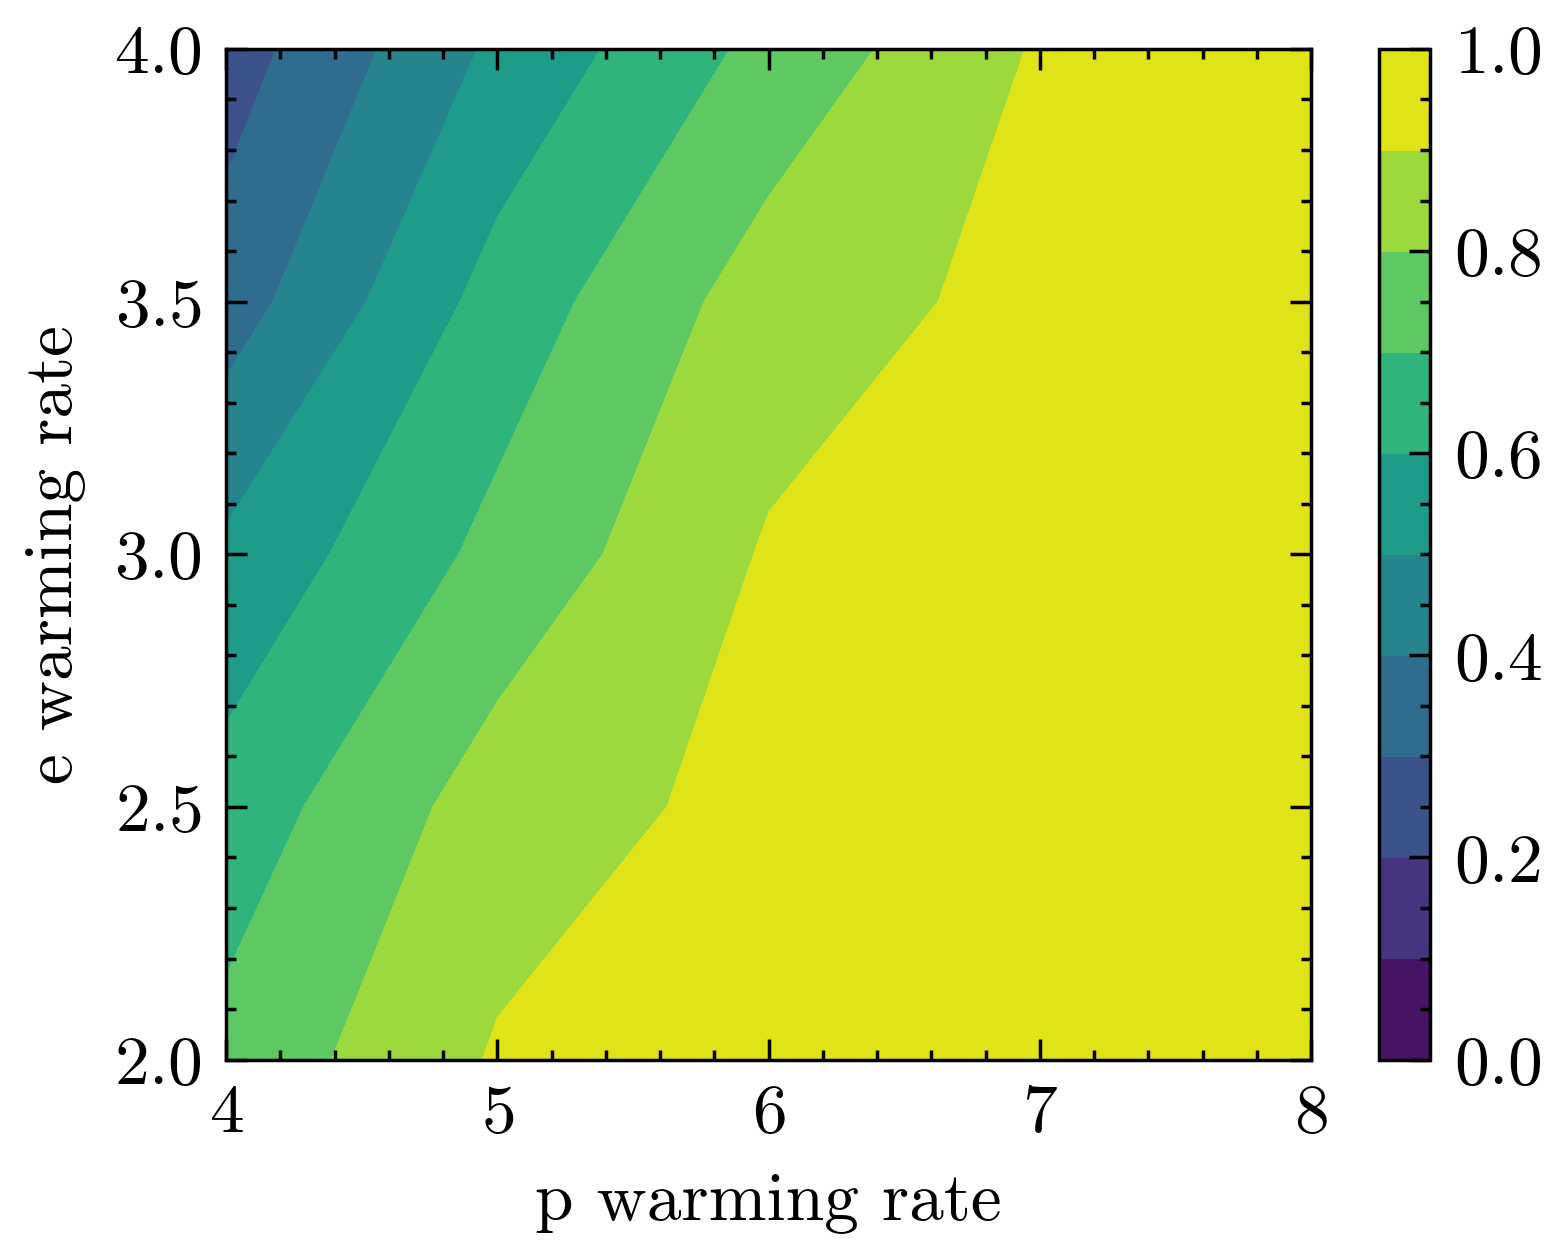
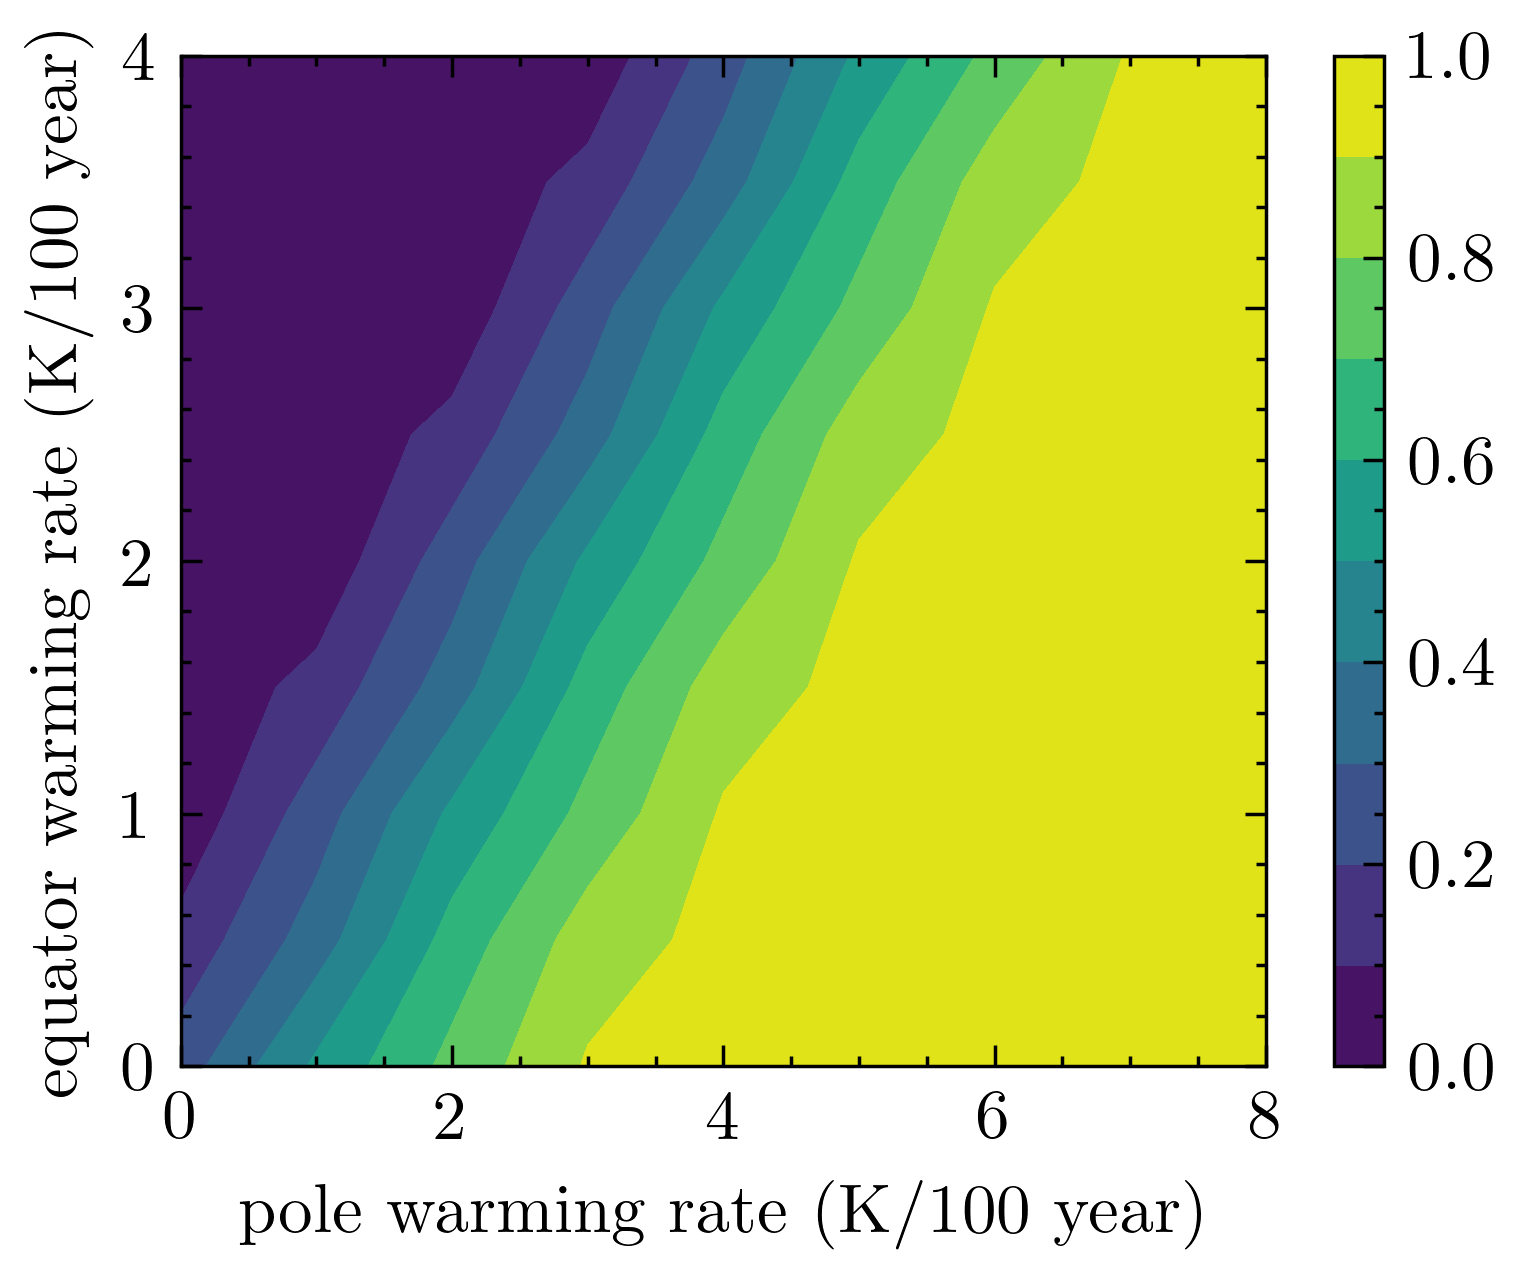
Various change to files and more graphs

diff --git a/dapper/mods/Stommel/Experiments/clima_forcing_var3.py b/dapper/mods/Stommel/Experiments/clima_forcing_var3.py
@@ -15,10 +15,10 @@ from copy import copy
 import os
 import scienceplots
 # from matplotlib.legend_handler import HandlerLine2D
-rc('text', usetex=False)
-plt.style.use(['science','no-latex']) # style used in scientific papers(LaTeX based)
+rc('text', usetex=True)
+plt.style.use(['science']) # style used in scientific papers(LaTeX based)
 
-def exp_clima_forcing(N=100, seed=1000, T_p_f = 6.0, T_e_f= 3.0, DA = True, m_rate = 0.):
+def exp_clima_forcing(N=100, seed=1000, T_p_f = 6.0, T_e_f= 3.0, DA = True, T_melt = 100*stommel.year):
     # Time period for DA
 
     Tda = 20 * stommel.year
@@ -57,8 +57,8 @@ def exp_clima_forcing(N=100, seed=1000, T_p_f = 6.0, T_e_f= 3.0, DA = True, m_ra
     # Activate surface salinity flux.
     model.fluxes.append(stommel.SaltAirFlux(functions))
     # Melt flux
-    #melt_rate = -stommel.V_ice * np.array([1.0 / (model.dx[0, 0] * model.dy[0, 0]), 0.0]) / T_melt  # ms-1
-    melt_rate = -np.array([m_rate, 0.0]) / stommel.year #m_rate is in m/year and transformed in ms^-1
+    melt_rate = -stommel.V_ice * np.array([1.0 / (model.dx[0, 0] * model.dy[0, 0]), 0.0]) / T_melt  # ms-1
+    #melt_rate = -np.array([m_rate, 0.0]) / stommel.year #m_rate is in m/year and transformed in ms^-1
     # Default evaporation-percipitation flux (=0)
     functions = stommel.default_air_ep(N)
         # Add effect Greenland melt with annual rate melt_rate
@@ -90,12 +90,13 @@ def exp_clima_forcing(N=100, seed=1000, T_p_f = 6.0, T_e_f= 3.0, DA = True, m_ra
 
     return xp, HMM, model
 
-def point(p_limit = 0.4, w_p = 6.0, m_r0 = 0., m_r_f = 2.,  step = .4, precision = 2, DA = True):
-    for m_r in np.arange(m_r0, m_r_f + step, step):
-        if precision <= 0:
-            return m_r_f
+def point(p_limit = 0.4, w_p = 6.0, T_m0 = 40.*stommel.year, T_mf = 440.*stommel.year,  step = 80.*stommel.year, precision = 5, DA = True):
+    if precision <= 0:
+        return T_mf
 
-        xp, HMM, model = exp_clima_forcing(T_p_f = w_p, T_e_f = w_p/2, DA = DA, m_rate=m_r)
+    for T_m in -1*np.arange(-T_mf, -T_m0 + step, step):
+
+        xp, HMM, model = exp_clima_forcing(T_p_f = w_p, T_e_f = w_p/2, DA = DA, T_melt=T_m)
 
         #Run
         xx, yy = HMM.simulate()
@@ -103,36 +104,46 @@ def point(p_limit = 0.4, w_p = 6.0, m_r0 = 0., m_r_f = 2.,  step = .4, precision
         p_flip = stommel.prob_change(Efor)
 
         if p_flip >= p_limit:
-            if np.abs(m_r - m_r0) < step/10: #if m_r == m_r0
-                return  m_r0
-            else:
-                print('fatto')
-                return point(p_limit=p_limit, w_p=w_p, m_r0= m_r - step, m_r_f = m_r, step= step/2, precision=precision - 1, DA=DA)
+            #if np.abs(T_m - T_mf) < step/10: #if T_m == T_mf
+            #    return  T_mf
+            #else:
+            print('fatto')
+            return point(p_limit=p_limit, w_p=w_p, T_m0= T_m, T_mf = T_m + step, step= step/2, precision=precision - 1, DA=DA)
+
+    return T_m0
 
 
-DA = False
-prob_limit = 0.5
-T_p_f = np.arange(3., 10., 1.)
-melt_rate = []
+
+DA = True
+prob_limit = 0.1
+T_p_f = np.arange(4., 8.5, .5)
+W_p = []
+melt_time = []
 
 #Build the data to graph
 for w_p in T_p_f:
-    melt_rate.append(point(p_limit=prob_limit, w_p=w_p, DA = DA))
+    #remove from the graph the none type points and add the type ones
+    W_p.append(w_p)
+    melt_time.append(point(p_limit=prob_limit, w_p=w_p, DA = DA)/stommel.year)
     print(w_p)
 
-print(melt_rate)
-fig,ax = plt.subplots()
-ax.set_xlabel("pole warming rate (°C/100years)")
-ax.set_ylabel("melt rate(m/year)")
-cs = ax.scatter(T_p_f, melt_rate)
 
-# Save figure
+Da = ''
+prob = str(prob_limit * 100) + '%'
 if DA == True:
-    fig.savefig(os.path.join(exp.fig_dir,
-                        'clima_forcing_var3_da.png'), format='png', dpi=500)
-else:
-    fig.savefig(os.path.join(exp.fig_dir,
-                        'clima_forcing_var3.png'), format='png', dpi=500)
+    Da = '_da'
+nomefile = 'Data/clima_forcing_var3' + Da + '_' + prob
 
+np.savez(nomefile, W_p, melt_time)
+
+print(melt_time)
+fig,ax = plt.subplots()
+ax.set_xlabel("pole warming rate (K/100years)")
+ax.set_ylabel("Melt Time(year)")
+cs = ax.scatter(W_p, melt_time, marker = ".")
+
+# Save figure and fiòe
+fig.savefig(os.path.join(exp.fig_dir,
+                    'clima_forcing_var3' + Da + '_' + prob + '.png'), format='png', dpi=500)
 
 

diff --git a/dapper/mods/Stommel/Experiments/ref_forcing_var.py b/dapper/mods/Stommel/Experiments/ref_forcing_var.py
@@ -3,10 +3,16 @@
 import numpy as np
 import dapper.mods as modelling
 import dapper.mods.Stommel as stommel
+import dapper.mods.Stommel.Experiments as exp
 from dapper.da_methods.ensemble import EnKF
 import matplotlib.pyplot as plt
+from matplotlib import rc
 from copy import copy
 import os
+import scienceplots
+# from matplotlib.legend_handler import HandlerLine2D
+rc('text', usetex=True)
+plt.style.use(['science']) # style used in scientific papers(LaTeX based)
 
 # Number of ensemble members
 DA = True
@@ -69,8 +75,8 @@ def exp_ref_forcing(N=100, seed=1000, T_dev=2., S_dev=.2, DA=True):
 
 
 #Arrays for values of the final temperatures of pole and equator at the end of climate change
-T_dev_min, T_dev_max, T_dev_step = 30., 45., 5.
-S_dev_min, S_dev_max, S_dev_step = 5.,  20., 5.
+T_dev_min, T_dev_max, T_dev_step = 30., 50., 5.
+S_dev_min, S_dev_max, S_dev_step = 5.,  25., 5.
 T_dev = np.arange(T_dev_min, T_dev_max + T_dev_step, T_dev_step)
 S_dev = np.arange(S_dev_min, S_dev_max + S_dev_step, S_dev_step)
 grid_x,  grid_y = np.meshgrid(T_dev, S_dev)
@@ -94,24 +100,32 @@ for i in range(len(T_dev)):
 
 
 #We now want to graph points in a 3D graph
-print(Z)
-fig1, ax1 = plt.subplots(subplot_kw={"projection": "3d"})
-ax1.plot_surface(grid_x, grid_y, Z)
 
+#print(Z)
+#fig1, ax1 = plt.subplots(subplot_kw={"projection": "3d"})
+#ax1.plot_surface(grid_x, grid_y, Z)
+
+#if DA == True:
+#    fig1.savefig(os.path.join(stommel.fig_dir, 'ref_forcing_var_3D_DA.png'), format='png', dpi=500)
+#else:
+#    fig1.savefig(os.path.join(stommel.fig_dir,'ref_forcing_var_3D.png'),format='png',dpi=500)
+
+Da = ''
 if DA == True:
-    fig1.savefig(os.path.join(stommel.fig_dir, 'ref_forcing_var_3D_DA.png'), format='png', dpi=500)
-else:
-    fig1.savefig(os.path.join(stommel.fig_dir,'ref_forcing_var_3D.png'),format='png',dpi=500)
+    Da = '_da'
+
+
+nomefile = 'Data/ref_forcing_var' + Da
+
+np.savez(nomefile, grid_x, grid_y, Z)
 
 fig2, ax2 = plt.subplots()
 
 ax2.set_xlabel("T_dev")
 ax2.set_ylabel("S_dev")
+
 levels = np.arange(0., 1.1, .1)
-ax2.contourf(grid_x, grid_y, Z, levels)
+cs = ax2.contourf(grid_x, grid_y, Z, levels)
+fig2.colorbar(cs)
 
-if DA == True:
-    fig2.savefig(os.path.join(stommel.fig_dir,'ref_forcing_var_col_DA.png'),format='png',dpi=500)
-else:
-    fig2.savefig(os.path.join(stommel.fig_dir,'ref_forcing_var_col.png'),format='png',dpi=500)
-
+fig2.savefig(os.path.join(exp.fig_dir,'ref_forcing_var' + Da + '.png'), format='png',dpi=500)

diff --git a/dapper/mods/Stommel/Experiments/clima_forcing_var2.py b/dapper/mods/Stommel/Experiments/clima_forcing_var2.py
@@ -15,8 +15,8 @@ from copy import copy
 import os
 import scienceplots
 # from matplotlib.legend_handler import HandlerLine2D
-rc('text', usetex=False)
-plt.style.use(['science','no-latex']) # style used in scientific papers(LaTeX based)
+rc('text', usetex=True)
+plt.style.use(['science']) # style used in scientific papers(LaTeX based)
 
 def exp_clima_forcing(N=100, seed=1000, T_p_f = 6.0, T_e_f= 3.0, DA = True, Melt = True):
     # Time period for DA
@@ -90,10 +90,10 @@ def exp_clima_forcing(N=100, seed=1000, T_p_f = 6.0, T_e_f= 3.0, DA = True, Melt
 
     return xp, HMM, model
 
-DA = False
+DA = True
 Melt = False
-T_p_f = np.arange(4., 9., 1.)
-T_e_f = np.arange(2., 4.5, .5)
+T_p_f = np.arange(0., 9., 1.)
+T_e_f = np.arange(0., 4.5, .5)
 grid_x, grid_y = np.meshgrid(T_p_f, T_e_f)
 Z = np.zeros_like(grid_x)
 
@@ -112,28 +112,22 @@ print(grid_y)
 print(Z)
 
 fig,ax = plt.subplots()
-ax.set_xlabel("p warming rate")
-ax.set_ylabel("e warming rate")
+ax.set_xlabel("pole warming rate (K/100 year)")
+ax.set_ylabel("equator warming rate (K/100 year)")
 levels = np.arange(0., 1.1, .1)
 cs = ax.contourf(T_p_f, T_e_f, Z, levels)
 fig.colorbar(cs)
 
-# Save figure
+# Save figuren and file
+Da = ''
+melt = ''
 if DA == True:
-    if Melt == True:
-        fig.savefig(os.path.join(exp.fig_dir,
-                             'clima_forcing_var2_da.png'), format='png', dpi=500)
-    else:
-        fig.savefig(os.path.join(exp.fig_dir,
-                             'clima_forcing_var2_da_nomelt.png'), format='png', dpi=500)
+    Da = '_da'
+if Melt == False:
+    melt = '_nomelt'
 
-else:
-    if Melt == True:
-        fig.savefig(os.path.join(exp.fig_dir,
-                             'clima_forcing_var2.png'), format='png', dpi=500)
-    else:
-        fig.savefig(os.path.join(exp.fig_dir,
-                                 'clima_forcing_var2_nomelt.png'), format='png', dpi=500)
-
-
+fig.savefig(os.path.join(exp.fig_dir,
+                         'clima_forcing_var2' + Da + melt + '.png'), format='png', dpi=500)
+nomefile = 'Data/clima_forcing_var2' + Da + melt
+np.savez(nomefile, grid_x, grid_y, Z)
 

diff --git a/dapper/mods/Stommel/Experiments/Create Graphs.py b/dapper/mods/Stommel/Experiments/Create Graphs.py
@@ -1,0 +1,28 @@
+import numpy as np
+import matplotlib.pyplot as plt
+from matplotlib import rc
+import dapper.mods.Stommel.Experiments as exp
+import os
+import scienceplots
+# from matplotlib.legend_handler import HandlerLine2D
+rc('text', usetex=True)
+plt.style.use(['science']) # style used in scientific papers(LaTeX based)
+
+#clima_forcing_var_2
+clima_var2 = np.load('Data/clima_forcing_var2.npz')
+clima_var2_da = np.load('Data/clima_forcing_var2_da.npz')
+clima_var2_nomelt = np.load('Data/clima_forcing_var2_nomelt.npz')
+clima_var2_da_nomelt = np.load('Data/clima_forcing_var2_da_nomelt.npz')
+
+levels = np.arange(0., 1.1, .1)
+
+fig1,ax1 = plt.subplots()
+ax1.set_xlabel("polar warming rate (°C/year)")
+ax1.set_ylabel("equatorial warming rate (K/year)")
+cs1 = ax1.contourf(clima_var2['arr_0'], clima_var2['arr_1'], clima_var2['arr_2'], levels)
+fig1.colorbar(cs1)
+
+fig1.text(0.40, 0.92, "DA", fontsize='large', color='r', ha ='right')
+fig1.text(0.45, 0.92, "Melt", fontsize='large', color='g', ha ='left')
+
+plt.show()
